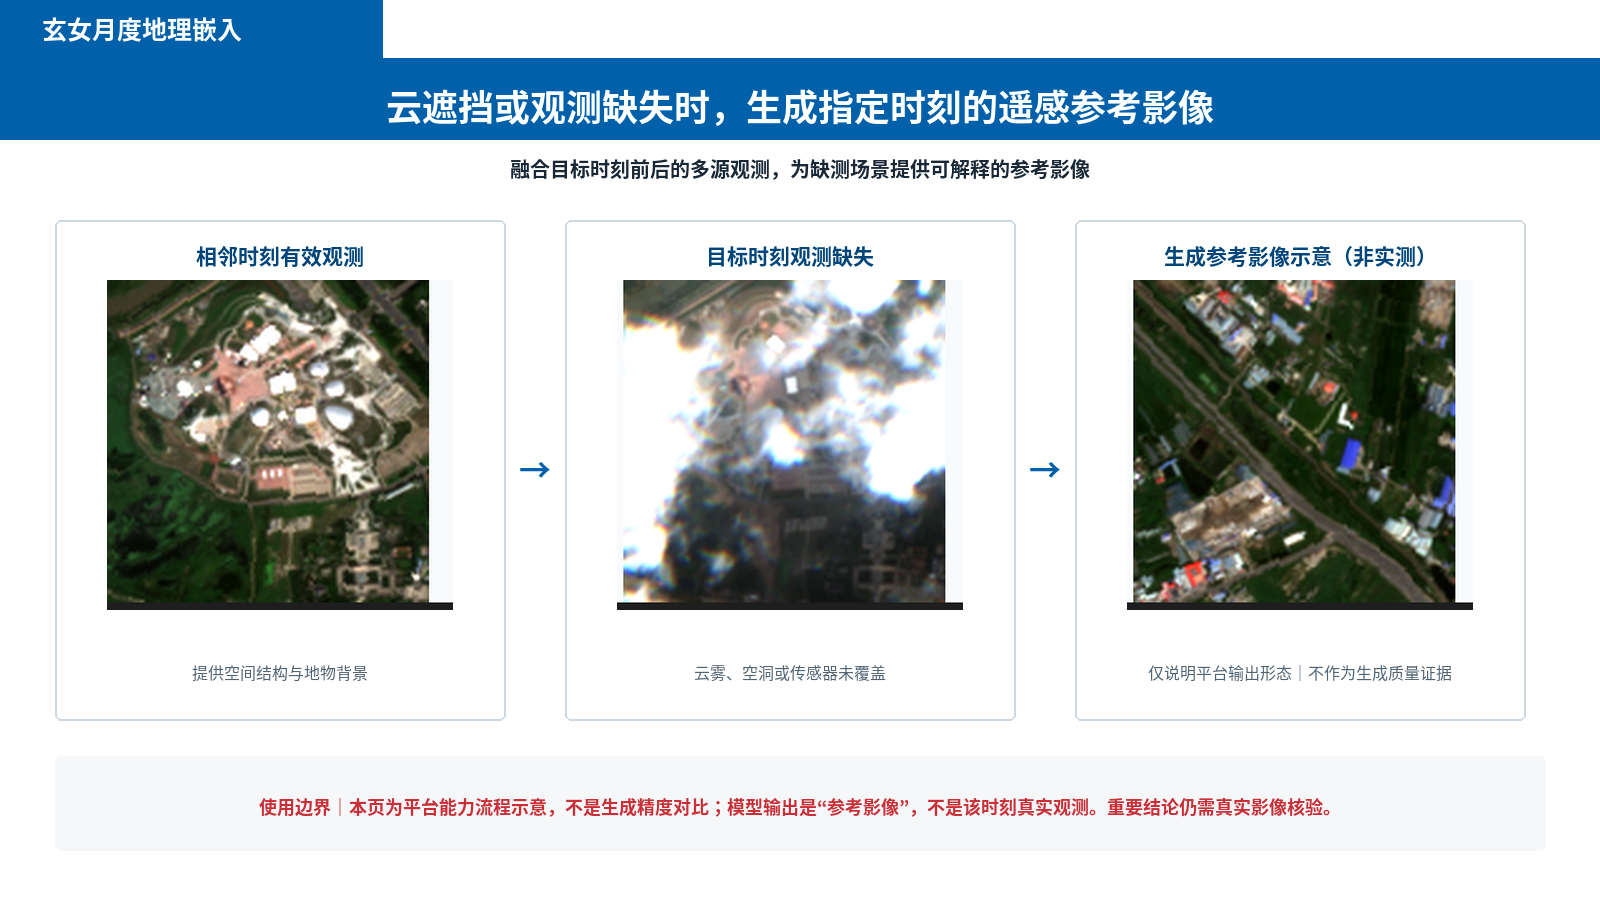
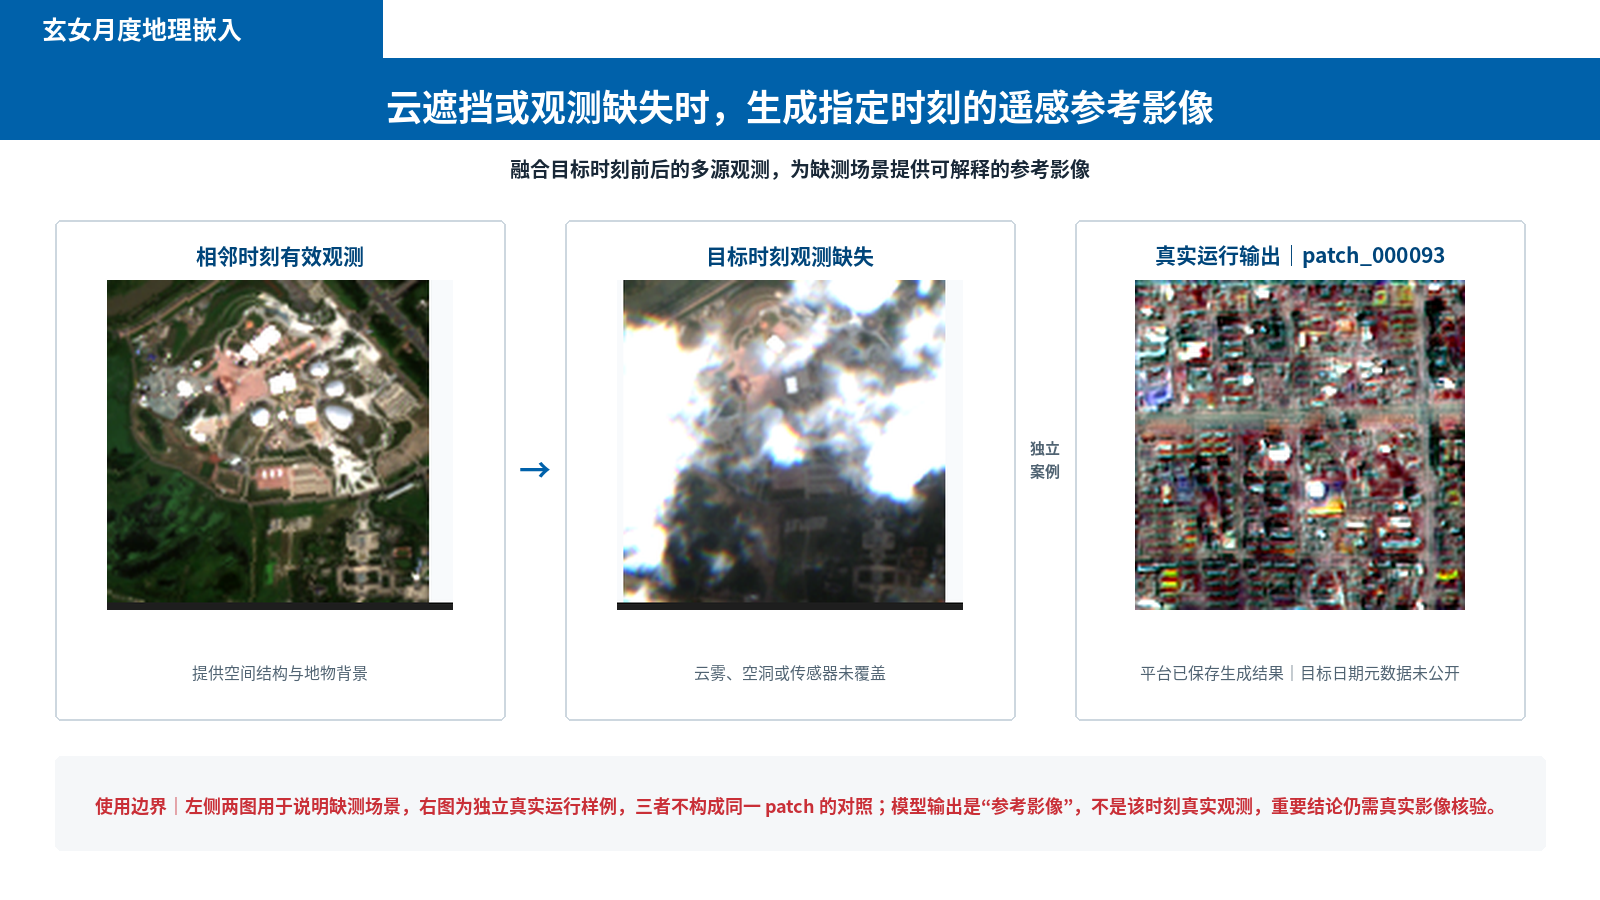
feat: merge Pujiang deck and verify reconstruction evidence

Changed region(s): [[0.625, 0.2489, 0.9375, 0.6844], [0.0625, 0.8711, 0.9375, 0.9333], [0.7188, 0.7156, 0.9062, 0.7778]]

diff --git a/scripts/report/build_pujiang_slides04_10.py b/scripts/report/build_pujiang_slides04_10.py
@@ -17,10 +17,15 @@ ASSET_ROOT = ROOT / "docs/presentations/assets/pujiang_202607"
 SOURCE_PPTX = Path(
     "/root/.codex/attachments/d0a9024d-03de-463f-83fa-675e2a235467/Alpha Earth介绍.pptx"
 )
+COMPLETE_OUTPUT = PRESENTATION_ROOT / "玄女月度地理嵌入_浦江交流_10页完整版_20260726.pptx"
 PLATFORM_POSTER = ROOT / "docs/bp_deck/assets/video/custom_annotation_demo_poster.png"
 PLATFORM_SCREENSHOT = Path(
     "/data/xuannv_embedding/experiments/presentation_pujiang_202607/frontend/"
     "haidian_platform_thum.png"
+)
+RECON_EXAMPLE = Path(
+    "/data/xuannv_embedding/experiments/presentation_pujiang_202607/frontend/"
+    "patch_000093_recon.png"
 )
 WORKFLOW_IMAGE = ROOT / "docs/bp_deck/assets/remote_sensing_team_workflow.png"
 FEWSHOT_IMAGE = ROOT / "docs/production/assets/haidian_v1_20260708/fewshot_5shot_examples.png"
@@ -354,11 +359,9 @@ def page07() -> tuple[Image.Image, dict]:
             "云雾、空洞或传感器未覆盖",
         ),
         (
-            Image.open(HAR_BIN_ROOT / "patch_000146_2025-06_vs_2025-08_detail.png")
-            .convert("RGB")
-            .crop((strip.width // 5, 0, strip.width // 5 * 2, strip.height - 34)),
-            "生成参考影像示意（非实测）",
-            "仅说明平台输出形态｜不作为生成质量证据",
+            Image.open(RECON_EXAMPLE).convert("RGB"),
+            "真实运行输出｜patch_000093",
+            "平台已保存生成结果｜目标日期元数据未公开",
         ),
     ]
     for index, (panel, title, detail) in enumerate(panels):
@@ -370,13 +373,15 @@ def page07() -> tuple[Image.Image, dict]:
         draw.rounded_rectangle((x, 220, x + 450, 720), radius=6, outline=LINE, width=2)
         centered(draw, title, (x + 10, 225, x + 440, 275), font(21, True), DEEP_BLUE)
         centered(draw, detail, (x + 15, 630, x + 435, 708), font(16), MUTED)
-        if index < 2:
+        if index == 0:
             centered(draw, "→", (x + 450, 410, x + 510, 500), font(32, True), BLUE)
+        elif index == 1:
+            centered(draw, "独立\n案例", (x + 452, 405, x + 508, 505), font(15, True), MUTED)
     draw.rounded_rectangle((55, 756, 1545, 850), radius=6, fill=PALE_GRAY)
     centered(
         draw,
-        "使用边界｜本页为平台能力流程示意，不是生成精度对比；模型输出是“参考影像”，"
-        "不是该时刻真实观测。重要结论仍需真实影像核验。",
+        "使用边界｜左侧两图用于说明缺测场景，右图为独立真实运行样例，三者不构成同一 patch 的对照；"
+        "模型输出是“参考影像”，不是该时刻真实观测，重要结论仍需真实影像核验。",
         (80, 760, 1520, 846),
         font(18, True),
         RED,
@@ -385,6 +390,7 @@ def page07() -> tuple[Image.Image, dict]:
         "slide": 7,
         "title": PAGE_TITLES[7],
         "output": "指定时刻参考影像",
+        "verified_example": "patch_000093_recon.png",
         "boundary": "Reference generation, not recovery of a true observation.",
     }
 
@@ -598,14 +604,40 @@ def default_paths(page: int) -> tuple[Path, Path]:
     return output, preview
 
 
+def merge_complete_deck(output: Path = COMPLETE_OUTPUT) -> None:
+    prs = Presentation()
+    prs.slide_width = Inches(13.333333)
+    prs.slide_height = Inches(7.5)
+    for page in range(1, 11):
+        preview = ASSET_ROOT / f"slide{page:02d}" / f"slide{page:02d}_preview.png"
+        if not preview.exists():
+            raise FileNotFoundError(f"Missing reviewed preview for page {page}: {preview}")
+        slide = prs.slides.add_slide(prs.slide_layouts[6])
+        slide.shapes.add_picture(
+            str(preview),
+            0,
+            0,
+            width=prs.slide_width,
+            height=prs.slide_height,
+        )
+    output.parent.mkdir(parents=True, exist_ok=True)
+    prs.save(output)
+
+
 def parse_args() -> argparse.Namespace:
     parser = argparse.ArgumentParser(description=__doc__)
-    parser.add_argument("--page", type=int, required=True, choices=range(4, 11))
+    group = parser.add_mutually_exclusive_group(required=True)
+    group.add_argument("--page", type=int, choices=range(4, 11))
+    group.add_argument("--merge", action="store_true")
     return parser.parse_args()
 
 
 def main() -> None:
     args = parse_args()
+    if args.merge:
+        merge_complete_deck()
+        print(COMPLETE_OUTPUT)
+        return
     output, preview = default_paths(args.page)
     build_page(args.page, output, preview)
     print(output)

diff --git a/tests/test_pujiang_slides04_10.py b/tests/test_pujiang_slides04_10.py
@@ -48,3 +48,11 @@ def test_slides05_to10_build_with_required_evidence(tmp_path: Path) -> None:
         assert str(evidence) in str(metadata)
         with Image.open(preview) as image:
             assert image.size == (1600, 900)
+
+
+def test_merge_deck_contains_ten_slides(tmp_path: Path) -> None:
+    output = tmp_path / "complete.pptx"
+
+    MODULE.merge_complete_deck(output)
+
+    assert len(Presentation(output).slides) == 10
